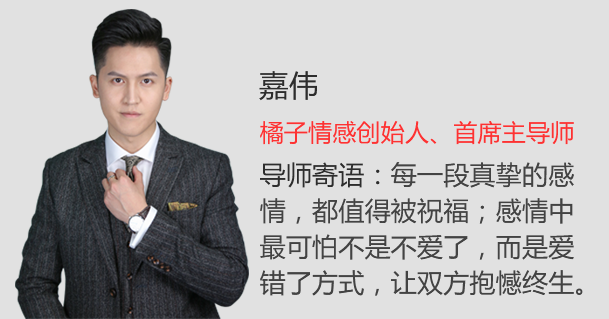
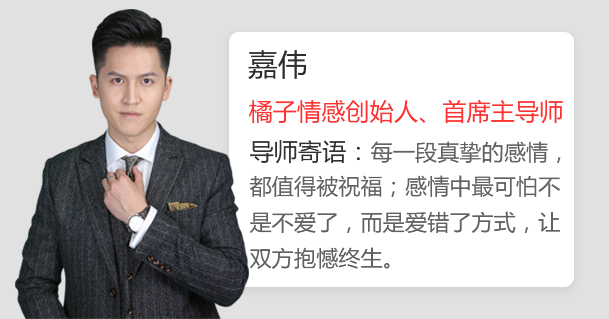
【首页】导师介绍部分轮播图：更新导师介绍图片

diff --git a/wap/views/emotion-forum.html b/wap/views/emotion-forum.html
@@ -64,7 +64,7 @@
 						</h3>
 						<p>
 							如果有人问我，挽回成功的秘诀是什么？那我会毫不犹豫的说：心态。心态决定行
-							为，行为养成习惯， 习惯形成性格，性格决定结局。
+							为，行为……
 						</p>
 					</div>
 				</div>
@@ -78,7 +78,7 @@
 						</h3>
 						<p>
 							“我挽回不了她，是不是就是因为我没钱、没势、而且不帅？”<br />
-							难道所有的女人喜欢的都是又有钱、又有势还帅的男人吗？
+							难道所有的女人……
 						</p>
 					</div>
 				</div>
@@ -92,14 +92,13 @@
 						</h3>
 						<p>
 							我知道现在在看这篇帖子的你，可能遇到了一些情感上的挫折，不知道怎么解决，
-							在和心爱的人分手之后，不知道怎么挽回她，今天这篇干货就会给大家一一揭开如
-							何做到快速有效的挽回TA。
+							在和心爱的人……
 						</p>
 					</div>
 				</div>
-				<div class="anli">
+				<!-- <div class="anli">
 					<div class="left">
-						<img src="images/emotion-forum/4.jpg" alt="橘子情感--干货案例" />
+						<img src="images/emotion-forum/4.jpg" alt="橘子情感 - 干货案例" />
 					</div>
 					<div class="right">
 						<h3>
@@ -110,7 +109,7 @@
 							果，而从来都没有去考虑到底用什么样的方法才能够有效的去挽回。
 						</p>
 					</div>
-				</div>
+				</div> -->
 				<div class="anli">
 					<div class="left">
 						<img src="images/emotion-forum/5.jpg" alt="橘子情感--干货案例" />
@@ -149,7 +148,7 @@
 						</h3>
 						<p>
 							很多人在和女生正常聊天基本上不会有太多严重的错误，但是一旦遇到废物测试，
-							十有八九就掉进去了，要命的是自己还不会意识到这是废物测试。
+							十有八九就掉进去了，要命的是……
 						</p>
 					</div>
 				</div>
@@ -191,7 +190,7 @@
 						</h3>
 						<p>
 							有时明明知道这场恋爱已经完蛋定了，却还是不顾一切、用尽全力的、把它一路
-							谈到尽头去，撞壁撞山到灰飞烟灭也不管。为什么要这样？
+							谈到尽头去，撞壁撞山到灰飞……
 						</p>
 					</div>
 				</div>
@@ -205,8 +204,7 @@
 						</h3>
 						<p>
 							很多人在分手之后会很痛苦也很迷茫，痛苦的是分手后那种失落感和无助感以及
-							想起两个人之间的美好时的那种不甘心；迷茫的是对这段感情的无能为力和对彼
-							此的思念之情以及不知道该如何挽回。
+							想起两个人之间的美好时的那种不甘……
 						</p>
 					</div>
 				</div>
@@ -266,6 +264,20 @@
 						</p>
 					</div>
 				</div>
+				<div class="anli">
+					<div class="left">
+						<img src="images/emotion-forum/4.jpg" alt="橘子情感--干货案例" />
+					</div>
+					<div class="right">
+						<h3>
+							简直不敢相信，被拉黑的你这样做竟然让她重新爱上你
+						</h3>
+						<p>
+							真正的爱情呢，是让你透过一个人看到了全世界，而不是你的全世界只有她一个
+							人。
+						</p>
+					</div>
+				</div>
 			</div>
 			<p class="more">查看更多>>></p>
 		</div>
@@ -277,7 +289,6 @@
 	$(document).ready(function() {
 
 		var
-		  router,             loadCss,
 			openThirdPartyPage, moduleFourViewMore,
 			i           = 0,
 			imgLink     = $(' .module .main .top' ).find( '.left .swiper-slide' ),
@@ -286,126 +297,112 @@
 			anli        = $( '.module .main .bottom' ).find( '.anli-group .anli' ),
 			viewMore    = $( '.module .main .bottom' ).find( '.more' ),
 			serviceLink = $( '.module .main .top' ).find( '.right .top img' ),
-			rightLink   = $( '.module .main .top' ).find( '.right .bottom p a' ),
-			$container  = $( '#container' )
+			rightLink   = $( '.module .main .top' ).find( '.right .bottom p a' )
 			;
 
-		// 加载 html 文件
-		router = function( module ) {
-			$.ajax({
-				url: 'views/' + module + '.html',
-				success: function( data ) {
-					$container.html( data );
-					console.log('successed to load html file!');
-				},
-				error: function(error) {
-					console.log('failed to load html file!');
-				}
-			});
-		};
-		// 加载 css 文件
-		loadCss = function(module) {
-			$.ajax({
-				type: 'GET',
-				url: 'css/' + module + '.css',
-				success: function(data) {
-					cssLink.attr('href', 'css/' + module + '.css');
-					console.log('successed to load stylesheet!');
-				},
-				error: function(error) {
-					console.log('failed to load stylesheet!');
-				}
-			});
-		}
-
 		// 打开三级页面：十本好书推荐 - module 01 area
-		openThirdPartyPage = $(function() {
+		openThirdPartyPage = (function() {
 			$( imgLink[0] ).find( '.item a img' ).click(function() {
-				router( 'three-level-page/ten-books/books' );
-				loadCss( 'books' );
+				app.router.loadHtml( 'views/three-level-page/ten-books/books' );
+				app.router.loadCss( 'css/books' );
 			});
-
 			$( imgLink[1] ).find( '.item a img' ).click(function () {
-				router( 'dry-case/cis31' );
-				loadCss( 'dry-case' );
+				app.router.loadHtml( 'views/dry-case/cis31' );
+				app.router.loadCss( 'dry-case' );
 			});
-
 			$( imgLink[2] ).find( '.item a img' ).click(function () {
-				router( 'dry-case/cis32' );
-				loadCss( 'dry-case' );
+				app.router.loadHtml( 'views/dry-case/cis32' );
+				app.router.loadCss( 'css/dry-case' );
 			});
 
 			$( serviceLink ).click(function () {
-				router( 'service' );
-				loadCss( 'service' );
-				$.ajax({
-					type    : 'GET',
-					url     : 'js/service.js',
-					success : function ( data ) {
-						console.log( '请求 service.js 文件成功!' );
-					},
-					error   : function ( error ) {
-						console.log( '请求 service.js 文件失败!' );
-					}
-				});
+				app.router.loadHtml( 'views/service' );
+				app.router.loadCss( 'css/service' );
+				app.router.loadJs( 'js/service' );
 			});
-
 			$( rightLink[0] ).click(function () {
-				router( 'dry-case/cis30' );
-				loadCss( 'dry-case' );
+				app.router.loadHtml( 'views/dry-case/cis30' );
+				app.router.loadCss( 'css/dry-case' );
 			});
-
 			$( rightLink[1] ).click(function () {
-				router( 'dry-case/cis26' );
-				loadCss( 'dry-case' );
+				app.router.loadHtml( 'views/dry-case/cis26' );
+				app.router.loadCss( 'css/dry-case' );
 			});
-		});
+		}());
+
 		// 干货案例跳转
 		moduleFourViewMore = (function() {
-			// 加载模块
-			function router(module, container) {
-				container = container || $('#container');
-				// 请求模块结构
-				$.ajax({
-					url: 'views/dry-case/' + module + '.html',
-					success: function(data) {
-						container.html(data);
-					},
-					error: function(error) {
-						console.log(' 写入 HTML 失败！');
-					}
-				});
-			}
-			// 动态加载 css 文件
-			function loadCss(module) {
-				$.ajax({
-					url: 'css/dry-case.css',
-					success: function(data) {
-						var cssLink = $('link.dynamic');
-						cssLink.attr('href', 'css/dry-case.css');
-					},
-					error: function(error) {
-						console.log('请求外部 css 样式表失败！');
-					}
-				});
-			}
-
 			// 加载当前点击的案例
-			anli.click(function () {
-				i++;
-				router( 'cis' + i );
-				loadCss( 'dry-case' );
+			$( anli[0] ).click(function () {
+				app.router.loadHtml( 'views/dry-case/cis1' );
+				app.router.loadCss( 'css/dry-case' );
 			});
-
+			$( anli[1] ).click(function () {
+				app.router.loadHtml( 'views/dry-case/cis2' );
+				app.router.loadCss( 'css/dry-case' );
+			});
+			$( anli[2] ).click(function () {
+				app.router.loadHtml( 'views/dry-case/cis3' );
+				app.router.loadCss( 'css/dry-case' );
+			});
+			$( anli[3] ).click(function () {
+				app.router.loadHtml( 'views/dry-case/cis5' );
+				app.router.loadCss( 'css/dry-case' );
+			});
+			$( anli[4] ).click(function () {
+				app.router.loadHtml( 'views/dry-case/cis6' );
+				app.router.loadCss( 'css/dry-case' );
+			});
+			$( anli[5] ).click(function () {
+				app.router.loadHtml( 'views/dry-case/cis7' );
+				app.router.loadCss( 'css/dry-case' );
+			});
+			$( anli[6] ).click(function () {
+				app.router.loadHtml( 'views/dry-case/cis8' );
+				app.router.loadCss( 'css/dry-case' );
+			});
+			$( anli[7] ).click(function () {
+				app.router.loadHtml( 'views/dry-case/cis9' );
+				app.router.loadCss( 'css/dry-case' );
+			});
+			$( anli[8] ).click(function () {
+				app.router.loadHtml( 'views/dry-case/cis10' );
+				app.router.loadCss( 'css/dry-case' );
+			});
+			$( anli[9] ).click(function () {
+				app.router.loadHtml( 'views/dry-case/cis11' );
+				app.router.loadCss( 'css/dry-case' );
+			});
+			$( anli[10] ).click(function () {
+				app.router.loadHtml( 'views/dry-case/cis12' );
+				app.router.loadCss( 'css/dry-case' );
+			});
+			$( anli[11] ).click(function () {
+				app.router.loadHtml( 'views/dry-case/cis13' );
+				app.router.loadCss( 'css/dry-case' );
+			});
+			$( anli[12] ).click(function () {
+				app.router.loadHtml( 'views/dry-case/cis14' );
+				app.router.loadCss( 'css/dry-case' );
+			});
+			$( anli[13] ).click(function () {
+				app.router.loadHtml( 'views/dry-case/cis15' );
+				app.router.loadCss( 'css/dry-case' );
+			});
+			$( anli[14] ).click(function () {
+				app.router.loadHtml( 'views/dry-case/cis16' );
+				app.router.loadCss( 'css/dry-case' );
+			});
 		}());
 
 		// 查看更多案例
 		viewMore.click(function () {
-			console.log( 'ok' );
 			anli_group.animate({
 				height : '100%'
 			}, 300);
 			$( this ).css( 'display', 'none' );
+
+			return false;
 		});
 
 	});
